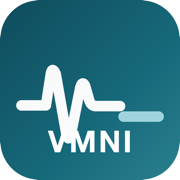
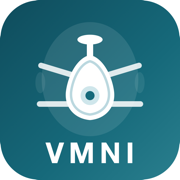
Icono nuevo: mascarilla de VMNI con silueta sutil del paciente
Mascarilla oronasal con apoyo frontal, arnés y puerto espiratorio sobre
silueta facial impersonal muy sutil; marca VMNI abajo sin solaparse.
Caché del service worker a v1.0.1 para propagar el icono.

diff --git a/sw.js b/sw.js
@@ -1,6 +1,6 @@
 /* Service worker — VMNI Urgencias. Precacheo + stale-while-revalidate:
    la app funciona sin conexión y se actualiza sola en segundo plano. */
-const CACHE = "vmni-v1.0.0";
+const CACHE = "vmni-v1.0.1";
 const FICHEROS = [
   "./",
   "./index.html",
